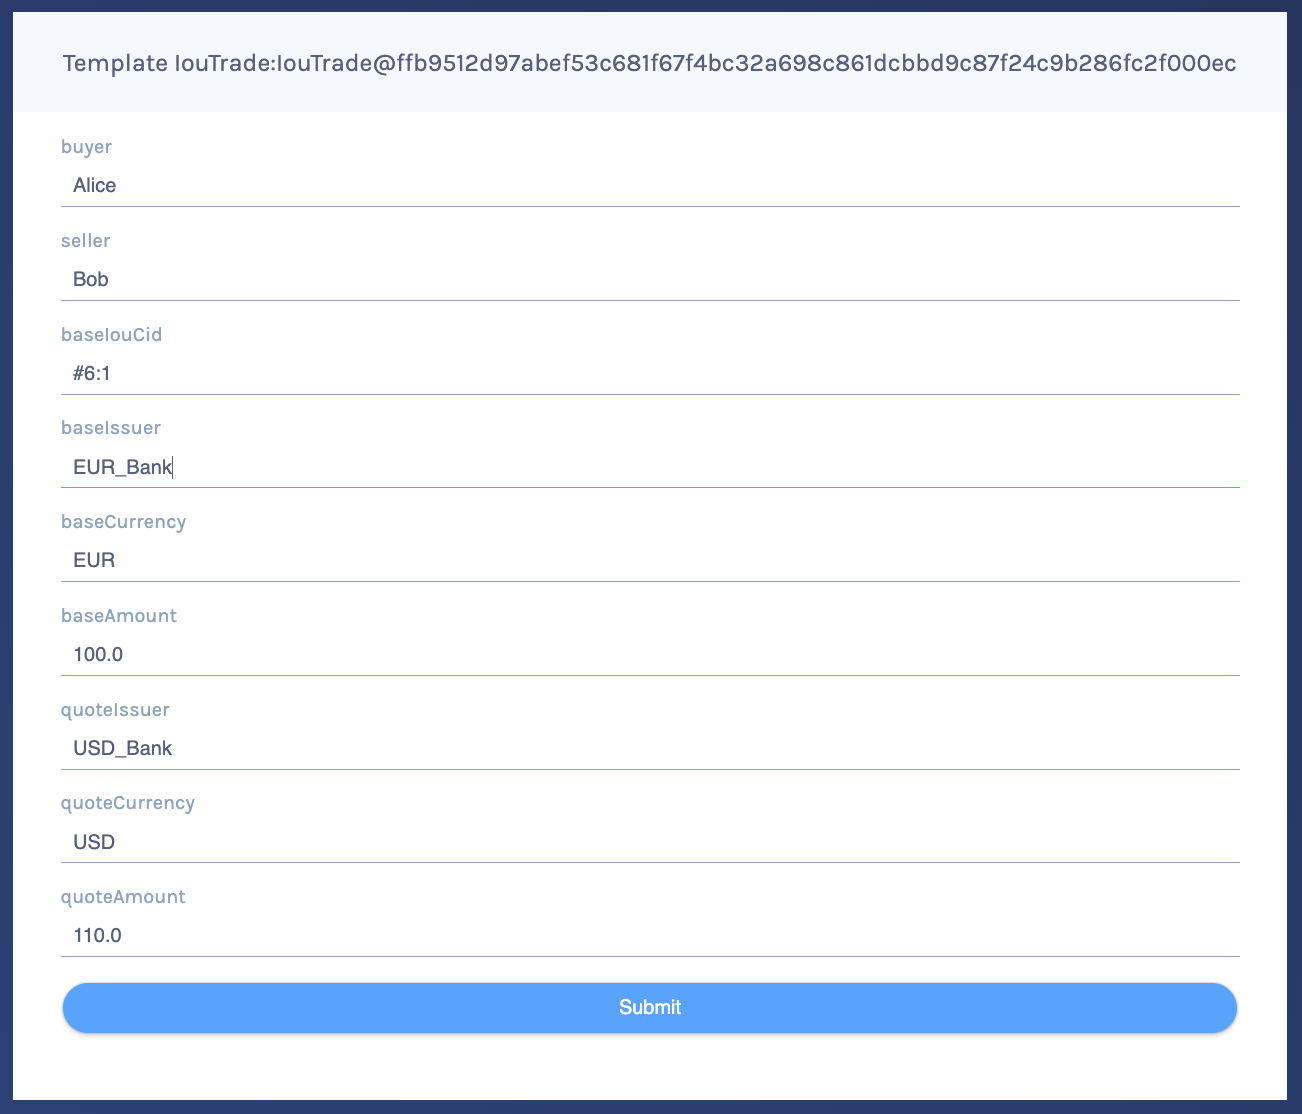
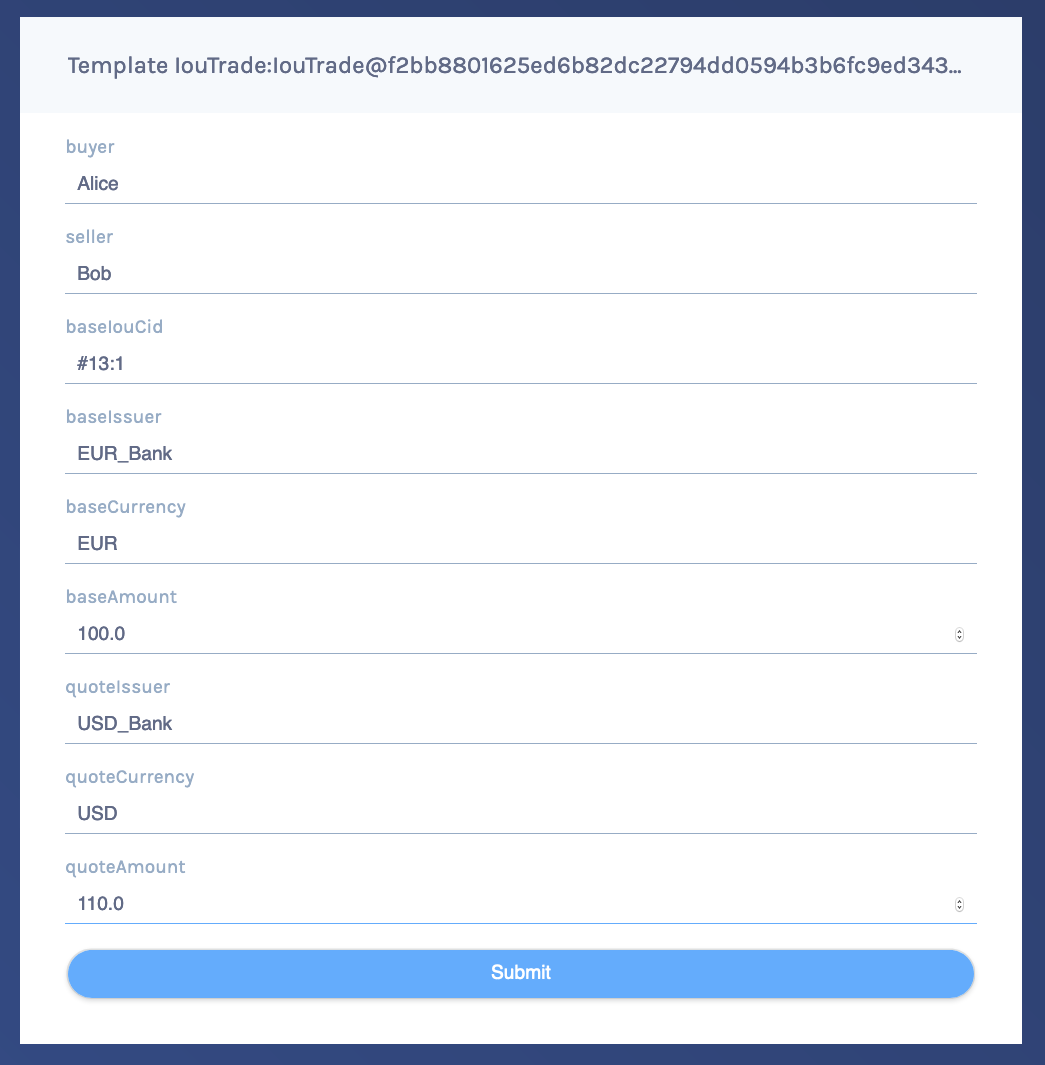
Update getting started guide and quickstart.

Changed region(s): [[0.0, 0.0, 1.0, 0.9915], [0.888, 0.5887, 0.9187, 0.6197]]

diff --git a/docs/source/getting-started/quickstart.rst b/docs/source/getting-started/quickstart.rst
@@ -44,6 +44,7 @@ The project contains the following files:
   │   ├── Iou.daml
   │   ├── IouTrade.daml
   │   ├── Main.daml
+  │   ├── Setup.daml
   │   └── Tests
   │       ├── Iou.daml
   │       └── Trade.daml
@@ -124,7 +125,7 @@ In this section, you will run the quickstart application and get introduced to t
 
    .. _quickstart-sandbox:
 
-#. To run the :doc:`sandbox </tools/sandbox>` (a lightweight local version of the ledger), run ``daml sandbox --scenario Main:setup .daml/dist/quickstart-0.0.1.dar``
+#. To run the :doc:`sandbox </tools/sandbox>` (a lightweight local version of the ledger), run ``daml sandbox .daml/dist/quickstart-0.0.1.dar``
 
    The output should look like this:
 
@@ -142,13 +143,14 @@ In this section, you will run the quickstart application and get introduced to t
 
    The sandbox is now running, and you can access its :doc:`ledger API </app-dev/index>` on port ``6865``.
 
-   .. note::
+   .. _quickstart-script
 
-      The parameter ``--scenario Main:setup`` loaded the sandbox ledger with some initial data. Only the sandbox has this prototyping feature - it's not available on the full ledger server. More on :ref:`scenarios <quickstart-scenarios>` later.
+#. Open a new terminal window and navigate to your project directory, ``quickstart``.
+
+#. To initialize the ledger with some parties and contracts we use :doc:`DAML Script </daml-script/index>` by running ``daml script --dar .daml/dist/quickstart-0.0.1.dar --script-name Setup:initialize --ledger-host localhost --ledger-port 6865 --static-time``
 
    .. _quickstart-navigator:
 
-#. Open a new terminal window and navigate to your project directory, ``quickstart``.
 #. Start the :doc:`Navigator </tools/navigator/index>`, a browser-based leger front-end, by running ``daml navigator server``
 
    The Navigator automatically connects the sandbox. You can access it on port ``4000``.
@@ -169,7 +171,7 @@ Now everything is running, you can try out the quickstart application:
 
    .. figure:: quickstart/images/contracts.png
 
-   This is showing you what contracts are currently active on the sandbox ledger and visible to *Alice*. You can see that there is a single such contract, with Id ``#2:1``, created from a *template* called ``Iou:Iou@ffb...``.
+   This is showing you what contracts are currently active on the sandbox ledger and visible to *Alice*. You can see that there is a single such contract, with Id ``#9:1``, created from a *template* called ``Iou:Iou@ffb...``.
 
 #. On the left-hand side, you can see what the pages the Navigator contains:
 
@@ -198,7 +200,7 @@ Now everything is running, you can try out the quickstart application:
 #. Now, try transferring this Iou to someone else. Click on your Iou, select **Iou_Transfer**, enter *Bob* as the new owner and hit **Submit**.
 #. Go to the **Owned Ious** page.
 
-   The screen shows the same contract ``#2:1`` that you already saw on the *Contracts* page. It is an Iou for €100, issued by *EUR_Bank*.
+   The screen shows the same contract ``#9:1`` that you already saw on the *Contracts* page. It is an Iou for €100, issued by *EUR_Bank*.
 #. Go to the **Iou Transfers** page. It shows the transfer of your recently issued Iou to Bob, but Bob has not accepted the transfer, so it is not settled.
 
    This is an important part of DAML: nobody can be forced into owning an *Iou*, or indeed agreeing to any other contract. They must explicitly consent.
@@ -208,7 +210,7 @@ Now everything is running, you can try out the quickstart application:
 
    Go back to *Owned Ious*, open the Iou for €100 and click on the button *Iou_AddObserver*. Submit *Bob* as the *newObserver*.
 
-   Contracts in DAML are immutable, meaning they cannot be changed, only created and archived. If you head back to the **Owned Ious** screen, you can see that the Iou now has a new Contract ID `#6:1`.
+   Contracts in DAML are immutable, meaning they cannot be changed, only created and archived. If you head back to the **Owned Ious** screen, you can see that the Iou now has a new Contract ID `#13:1`.
 #. To propose the trade, go to the **Templates** screen. Click on the *IouTrade:IouTrade* template, fill in the form as shown below and submit the transaction.
 
    .. figure:: quickstart/images/tradeProp.png
@@ -220,8 +222,8 @@ Now everything is running, you can try out the quickstart application:
 
    It also shows an *Iou* for $110 issued by *USD_Bank*. This matches the trade proposal you made earlier as Alice.
 
-   Note its *Contract Id* ``#3:1``.
-#. Settle the trade. Go to the **Trades** page, and click on the row of the proposal. Accept the trade by clicking **IouTrade_Accept**. In the popup, enter ``#3:1`` as the *quoteIouCid*, then click **Submit**.
+   Note its *Contract Id* ``#10:1``.
+#. Settle the trade. Go to the **Trades** page, and click on the row of the proposal. Accept the trade by clicking **IouTrade_Accept**. In the popup, enter ``#10:1`` as the *quoteIouCid*, then click **Submit**.
 
    The two legs of the transfer are now settled atomically in a single transaction. The trade either fails or succeeds as a whole.
 #. Privacy is an important feature of DAML. You can check that Alice and Bob's privacy relative to the Banks was preserved.
